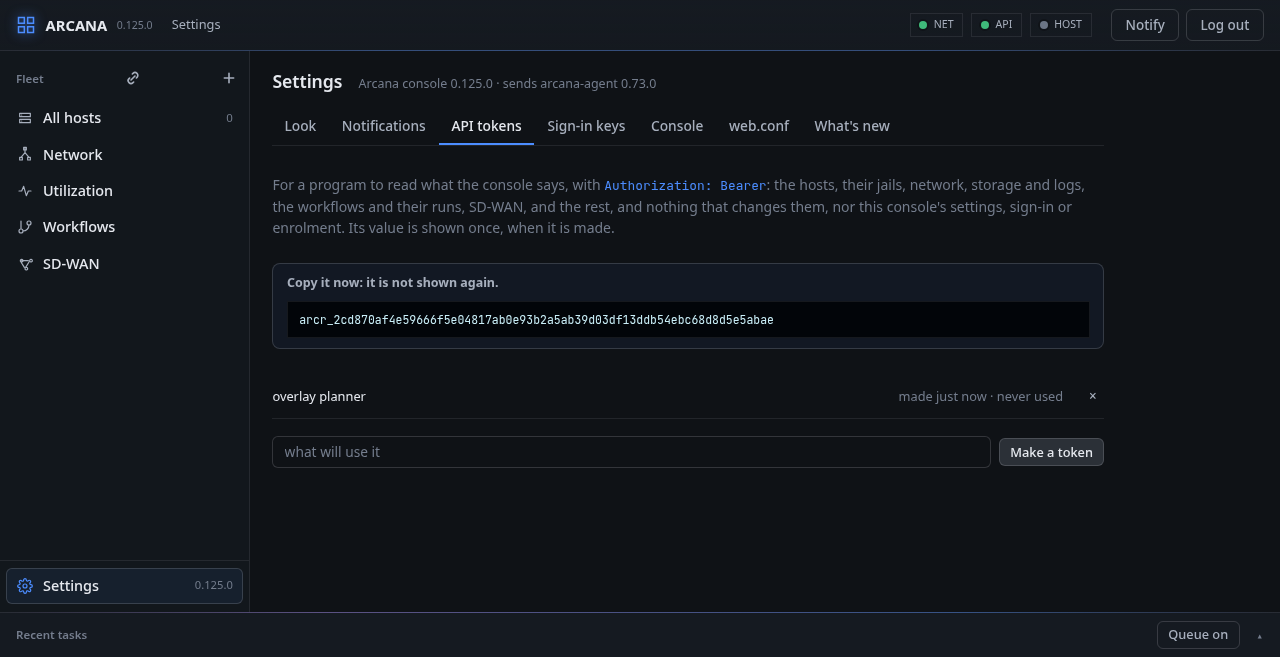
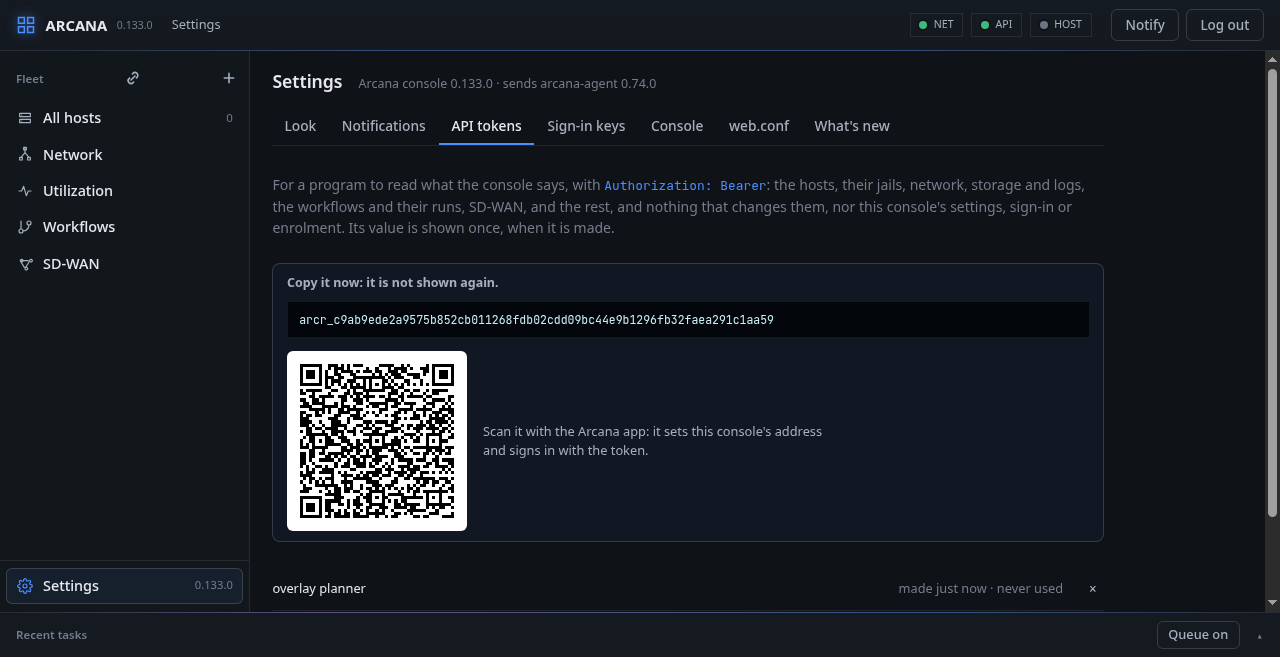
Settings: the API token's QR code, for the Arcana app

diff --git a/src/sections/settings.md b/src/sections/settings.md
@@ -45,6 +45,12 @@ nothing else: it changes nothing, and does not read the console's
 settings, sign-in, push or enrolment. Deleted, it opens nothing at
 once.
 
+Beside the value, while it is shown, a **QR code** for the Arcana app on
+Android: `arcana://token?console=<the console's address>&token=<token>`.
+Scanned on the app's first screen, it sets the console's address and
+signs in with the token. It is the same secret as the value, and goes
+with it.
+
 ## Sign-in keys
 
 The security keys and passkeys that may sign in: each can be removed,
